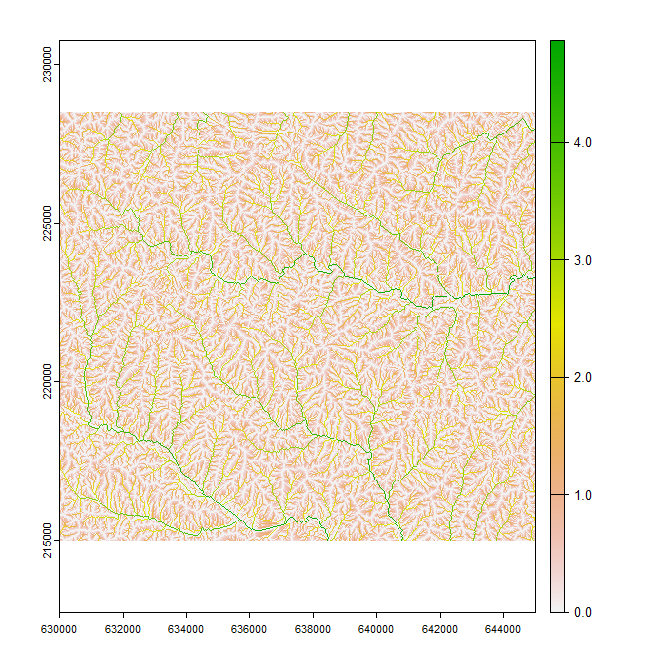
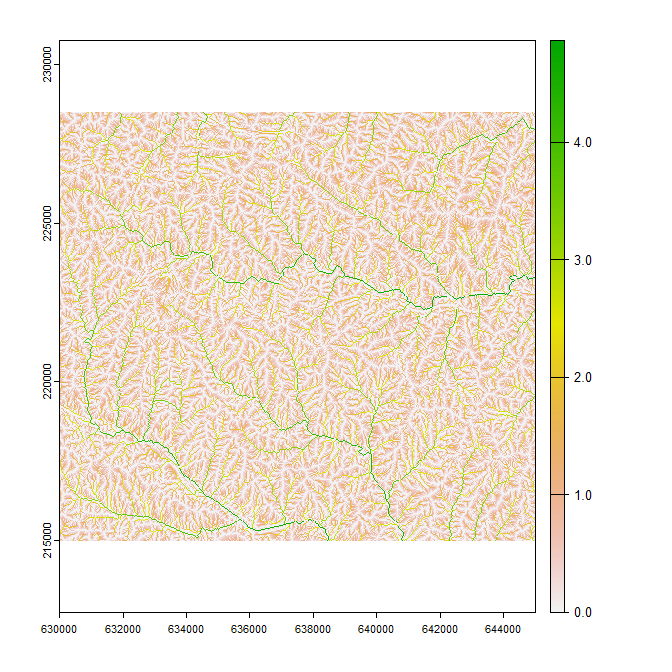
Added stream burning to generate_flowdir(). Added option to compress rasters to all relevant functions. Fixed a bug in attrib_point() when multiple different summaries were requested.

Changed region(s): [[0.0938, 0.1562, 0.8125, 0.8125]]

diff --git a/README.md b/README.md
@@ -204,37 +204,9 @@ ot<-system.file("extdata", "nc", "elev_ned_30m.tif", package = "openSTARS") %>%
   rast() 
 
 crs(ot)<-crs(rast(system.file("extdata", "nc", "landuse_r.tif", package = "openSTARS")))
-writeRaster(ot,file.path(save_dir, "toy_dem1.tif"),overwrite=T)
+writeRaster(ot,file.path(save_dir, "toy_dem.tif"),overwrite=T)
 
-toy_dem<-rast(file.path(save_dir, "toy_dem1.tif"))
-
-
-# Bring in and process stream vector
-system.file("extdata", "nc", "streams.shp", package = "openSTARS") %>% 
-  vect() %>% 
-  st_as_sf() %>% 
-  st_transform(st_crs(toy_dem)) %>% 
-  vect() %>% 
-  writeVector(file.path(save_dir, "toy_streams.shp"),overwrite=T)
-
-burn_lyr<-vect(file.path(save_dir, "toy_streams.shp")) %>% 
-  rasterize(toy_dem)
-
-# rudimentary stream burning
-burn_lyr2<-toy_dem
-burn_lyr2[is.na(burn_lyr)]<-NA 
-burn_lyr2<-burn_lyr2-5
-toy_dem[!is.na(burn_lyr2)]<-burn_lyr2[!is.na(burn_lyr2)]
-
-writeRaster(toy_dem,file.path(save_dir, "toy_dem.tif"),overwrite=T)
-
-## Breach depressions to ensure continuous flow
-wbt_breach_depressions(
-  dem = file.path(save_dir, "toy_dem.tif"),
-  output = file.path(save_dir, "toy_dem_breached.tif")
-)
-
-toy_dem<-rast(file.path(save_dir, "toy_dem_breached.tif"))
+toy_dem<-rast(file.path(save_dir, "toy_dem.tif"))
 
 ## Identify some sampling points
 system.file("extdata", "nc", "sites_nc.shp", package = "openSTARS") %>% 
@@ -344,6 +316,8 @@ output_filename_hydro<-file.path(save_dir,"Processed_Hydrology.zip")
 # flow accumulation threshold
 hydro_out<-process_flowdir(
   dem=toy_dem,
+  burn_streams=system.file("extdata", "nc", "streams.shp", package = "openSTARS"),
+  depression_corr="breach",
   threshold=100L,  
   return_products=T,
   output_filename=output_filename_hydro,
@@ -763,6 +737,8 @@ output_filename_hydro_sparse<-file.path(save_dir,"Processed_Hydrology_sparse.zip
 hydro_out_sparse<-process_hydrology(
   dem=toy_dem,
   output_filename=output_filename_hydro_sparse,
+  burn_streams=system.file("extdata", "nc", "streams.shp", package = "openSTARS"),
+  depression_corr="breach",
   threshold=500L,
   points=hydro_out$snapped_points, 
   site_id_col="site_id",
@@ -904,9 +880,9 @@ final_attributes_sub %>%
 #> # A tibble: 3 × 26
 #>   site_id slope_lumped…¹ slope…² slope…³ slope…⁴ slope…⁵ slope…⁶ slope…⁷ slope…⁸
 #>   <chr>            <dbl>   <dbl>   <dbl>   <dbl>   <dbl>   <dbl>   <dbl>   <dbl>
-#> 1 1                 3.31 0.149      15.9    3.16    2.13    3.39    2.26    3.33
-#> 2 25               NA    0.00515    26.3   NA       2.93   NA       2.85   NA   
-#> 3 80                3.52 0.400      10.1    3.52    2.39    4.04    2.47    3.98
+#> 1 1                 2.86  0.194    10.2     2.73    1.43    2.90    1.49    2.83
+#> 2 25               NA     0.0466   10.9    NA       1.86   NA       1.97   NA   
+#> 3 80                2.37  0.400     5.58    2.37    1.02    2.53    1.05    2.53
 #> # … with 17 more variables: slope_iFLS_distwtd_sd <dbl>,
 #> #   slope_HAiFLO_distwtd_mean <dbl>, slope_HAiFLO_distwtd_sd <dbl>,
 #> #   slope_HAiFLS_distwtd_mean <dbl>, slope_HAiFLS_distwtd_sd <dbl>,
@@ -976,20 +952,20 @@ final_attributes_samples<-attrib_points(
 )
 
 final_attributes_samples
-#> # A tibble: 60 × 37
+#> # A tibble: 61 × 37
 #>    site_id distance_we…¹ weigh…² slope…³ slope…⁴ LC_1_…⁵ LC_2_…⁶ LC_3_…⁷ LC_4_…⁸
 #>    <chr>   <list>        <list>    <dbl>   <dbl>   <dbl>   <dbl>   <dbl>   <dbl>
-#>  1 1       <NULL>        <NULL>     3.71    3.37  0.0927       0 0       0.0428 
-#>  2 11      <NULL>        <NULL>     5.71    3.97  0.179        0 1.45e-3 0.219  
-#>  3 12      <NULL>        <NULL>     3.44    3.54  0.820        0 0       0      
-#>  4 15      <NULL>        <NULL>     3.23    4.23  0.128        0 7.28e-4 0.0357 
-#>  5 16      <NULL>        <NULL>     3.34    4.39  0.0906       0 5.89e-4 0.0256 
-#>  6 17      <NULL>        <NULL>     3.35    4.39  0.125        0 9.73e-4 0.0181 
-#>  7 18      <NULL>        <NULL>     3.36    4.42  0.124        0 2.03e-3 0.0128 
-#>  8 19      <NULL>        <NULL>     3.71    4.35  0            0 9.24e-1 0      
-#>  9 20      <NULL>        <NULL>     3.10    4.47  0.0604       0 3.05e-1 0.00915
-#> 10 21      <NULL>        <NULL>     3.08    2.25  0.845        0 2.82e-2 0      
-#> # … with 50 more rows, 28 more variables: LC_5_HAiFLO_prop <dbl>,
+#>  1 1       <NULL>        <NULL>     4.42    2.52  0.0959       0 0        0.0255
+#>  2 11      <NULL>        <NULL>     5.37    3.09  0.167        0 1.37e-3  0.184 
+#>  3 12      <NULL>        <NULL>     4.42    3.03  0.451        0 1.08e-3  0.133 
+#>  4 15      <NULL>        <NULL>     2.33    3.35  0.123        0 7.76e-4  0.0360
+#>  5 16      <NULL>        <NULL>     2.12    3.49  0.0883       0 6.27e-4  0.0259
+#>  6 17      <NULL>        <NULL>     1.98    3.51  0.111        0 9.57e-4  0.0183
+#>  7 18      <NULL>        <NULL>     1.80    3.55  0.118        0 1.55e-3  0.0129
+#>  8 19      <NULL>        <NULL>     3.74    4.37  0            0 9.29e-1  0     
+#>  9 20      <NULL>        <NULL>     1.85    3.60  0.0593       0 3.08e-1  0.0100
+#> 10 21      <NULL>        <NULL>     2.55    2.19  0.861        0 2.80e-2  0     
+#> # … with 51 more rows, 28 more variables: LC_5_HAiFLO_prop <dbl>,
 #> #   LC_6_HAiFLO_prop <dbl>, LC_7_HAiFLO_prop <dbl>,
 #> #   GEO_NAME_CZam_HAiFLO_prop <dbl>, GEO_NAME_CZbg_HAiFLO_prop <dbl>,
 #> #   GEO_NAME_CZfg_HAiFLO_prop <dbl>, GEO_NAME_CZg_HAiFLO_prop <dbl>,
@@ -1034,20 +1010,20 @@ final_attributes_all<-attrib_points(
 )
 
 final_attributes_all
-#> # A tibble: 264 × 37
+#> # A tibble: 276 × 37
 #>    link_id distance_we…¹ weigh…² slope…³ slope…⁴ LC_1_…⁵ LC_2_…⁶ LC_3_…⁷ LC_4_…⁸
 #>      <dbl> <list>        <list>    <dbl>   <dbl>   <dbl>   <dbl>   <dbl>   <dbl>
-#>  1     213 <NULL>        <NULL>     3.41    5.00 0.00481       0 1.03e-1 1.97e-1
-#>  2      15 <NULL>        <NULL>     4.32    4.32 0.102         0 3.76e-3 2.06e-2
-#>  3     210 <NULL>        <NULL>     4.70    4.07 0.0355        0 1.71e-1 2.72e-2
-#>  4       2 <NULL>        <NULL>     3.77    4.81 0.0846        0 2.26e-1 2.67e-2
-#>  5       5 <NULL>        <NULL>     5.19    4.89 0.316         0 2.47e-1 1.25e-1
-#>  6       7 <NULL>        <NULL>     4.38    4.77 0.740         0 4.52e-3 1.38e-3
-#>  7      11 <NULL>        <NULL>     3.93    4.54 0.556         0 4.22e-4 0      
-#>  8     211 <NULL>        <NULL>     3.71    5.09 0.00613       0 8.28e-2 1.13e-2
-#>  9       1 <NULL>        <NULL>     4.27    4.66 0             0 1.67e-1 5.39e-1
-#> 10     203 <NULL>        <NULL>     2.87    3.31 0.791         0 2.79e-2 4.30e-4
-#> # … with 254 more rows, 28 more variables: LC_5_HAiFLO_prop <dbl>,
+#>  1     225 <NULL>        <NULL>     2.93    4.21 0.00336       0 1.04e-1 1.89e-1
+#>  2     222 <NULL>        <NULL>     4.12    3.95 0.0887        0 4.20e-3 1.36e-2
+#>  3     220 <NULL>        <NULL>     3.09    3.80 0.0380        0 1.88e-1 3.15e-2
+#>  4       2 <NULL>        <NULL>     3.76    3.55 0.0928        0 2.24e-1 3.25e-2
+#>  5       4 <NULL>        <NULL>     5.12    4.52 0.242         0 1.82e-1 1.23e-1
+#>  6       8 <NULL>        <NULL>     3.62    4.36 0.748         0 4.05e-3 1.62e-3
+#>  7      15 <NULL>        <NULL>     3.23    4.01 0.575         0 4.23e-4 0      
+#>  8       1 <NULL>        <NULL>     3.34    3.37 0             0 1.48e-1 5.55e-1
+#>  9     223 <NULL>        <NULL>     3.46    4.41 0.00452       0 5.45e-2 5.78e-3
+#> 10     214 <NULL>        <NULL>     2.37    2.85 0.730         0 4.50e-2 4.02e-4
+#> # … with 266 more rows, 28 more variables: LC_5_HAiFLO_prop <dbl>,
 #> #   LC_6_HAiFLO_prop <dbl>, LC_7_HAiFLO_prop <dbl>,
 #> #   GEO_NAME_CZam_HAiFLO_prop <dbl>, GEO_NAME_CZbg_HAiFLO_prop <dbl>,
 #> #   GEO_NAME_CZfg_HAiFLO_prop <dbl>, GEO_NAME_CZg_HAiFLO_prop <dbl>,
@@ -1194,16 +1170,16 @@ map_dfr(final_out,show_best,5,metric = "rmse",.id="Cross-validation strategy")
 #> # A tibble: 10 × 10
 #>    Cross-validat…¹  mtry trees min_n .metric .esti…²  mean     n std_err .config
 #>    <chr>           <int> <int> <int> <chr>   <chr>   <dbl> <int>   <dbl> <chr>  
-#>  1 standard           67    48    11 rmse    standa…  2.78     4   0.264 Prepro…
-#>  2 standard           46   402    16 rmse    standa…  2.81     5   0.206 Prepro…
-#>  3 standard           30   339     9 rmse    standa…  2.83     5   0.228 Prepro…
-#>  4 standard           70   759    12 rmse    standa…  2.83     5   0.202 Prepro…
-#>  5 standard           49  1547     5 rmse    standa…  2.83     5   0.208 Prepro…
-#>  6 spatial            51   303    36 rmse    standa…  3.02     5   0.235 Prepro…
-#>  7 spatial            48   101    28 rmse    standa…  3.03     5   0.234 Prepro…
-#>  8 spatial            74  1476    32 rmse    standa…  3.04     5   0.244 Prepro…
-#>  9 spatial            67  1844    35 rmse    standa…  3.04     5   0.243 Prepro…
-#> 10 spatial            14   531    38 rmse    standa…  3.04     5   0.242 Prepro…
+#>  1 standard           16  1062     7 rmse    standa…  2.79     5   0.312 Prepro…
+#>  2 standard            8  1486     8 rmse    standa…  2.79     5   0.287 Prepro…
+#>  3 standard           29   966     5 rmse    standa…  2.80     5   0.332 Prepro…
+#>  4 standard           12   181     6 rmse    standa…  2.80     5   0.309 Prepro…
+#>  5 standard            5  1857    11 rmse    standa…  2.81     5   0.280 Prepro…
+#>  6 spatial            45   922    38 rmse    standa…  2.99     5   0.213 Prepro…
+#>  7 spatial            23  1949    37 rmse    standa…  3.00     5   0.213 Prepro…
+#>  8 spatial            16  1653    39 rmse    standa…  3.01     5   0.222 Prepro…
+#>  9 spatial            34  1739    37 rmse    standa…  3.01     5   0.214 Prepro…
+#> 10 spatial             2  1428    40 rmse    standa…  3.01     5   0.240 Prepro…
 #> # … with abbreviated variable names ¹`Cross-validation strategy`, ².estimator
 ```
 
